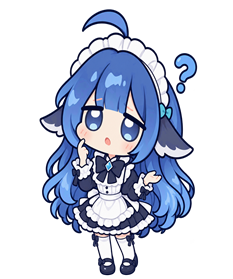
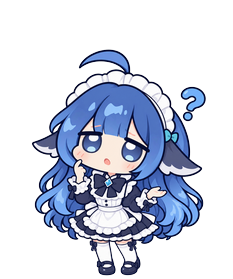
chore: release 0.0.160

diff --git a/src/renderer/avatar.tsx b/src/renderer/avatar.tsx
@@ -61,6 +61,8 @@ function Avatar() {
   const { snapshot, error, run } = usePetState();
   const [approval, setApproval] = useState<{ id: string; title: string; detail?: string } | null>(null);
   useEffect(() => petBridge().onApprovalRequest((request) => setApproval(request)), []);
+  // 偷窥截屏时换成探头偷看的表情，截完自动换回。
+  useEffect(() => petBridge().onPeekFace?.((active) => setPeekFace(active)), []);
   const personaId = snapshot?.conversationLibrary?.settings.personaId ?? 'xiaojing';
   const personaArt = avatarArtFor(personaId);
   const personaRig = avatarRigFor(personaId);
@@ -114,7 +116,8 @@ function Avatar() {
   const swapRef = useRef<HTMLDivElement | null>(null);
   const idleStop = useRef<(() => void) | null>(null);
   const ahogeRef = useRef<HTMLImageElement | null>(null);
-  const [poseId, setPoseId] = useState<string | null>(null);
+  const [poseId, setPoseId] = useState<string | null>(null)
+  const [peekFace, setPeekFace] = useState(false);
   const lastPose = useRef<string | null>(null);
   const greeted = useRef(false);
   const [visibleArt, setVisibleArt] = useState<string | null>(null);
@@ -143,7 +146,8 @@ function Avatar() {
   // compacting, so using it here could let a fidget interrupt those states.
   const idleBehaviorAllowed = lanes.task === 'idle' && lanes.voice === 'silent' && lanes.interaction === 'none';
   const stateFace = faceForAvatarEmotion(lanes.emotion);
-  const desiredFace = stateFace ?? (idleBehaviorAllowed ? poseId : null);
+  // 状态提示压过一切（只持续几秒）；偷窥的探头次之；空闲轮换垫底。
+  const desiredFace = stateFace ?? (peekFace ? 'peek' : idleBehaviorAllowed ? poseId : null);
   const desiredArt = avatarFaceUrl(personaId, desiredFace);
   const entryCue = entryCueFor(lanes);
 

diff --git a/src/main/index.ts b/src/main/index.ts
@@ -203,6 +203,10 @@ const roastService = new RoastService({
         const shot = await captureScreenBase64()
         if (shot) image = shot
       }
+      // 偷窥截屏时让角色换成探头偷看的表情；开关关掉前一直保持。
+      if (image && avatarWindow && !avatarWindow.isDestroyed()) {
+        avatarWindow.webContents.send('pet:peek-face', true)
+      }
       const prompt = typeof settings.roastPrompt === 'string' ? settings.roastPrompt.trim() : ''
       const now = new Date()
       const today = now.toDateString()
@@ -1243,6 +1247,10 @@ function sendUiSizeWhenLoaded(win: BrowserWindow): void {
     win.webContents.send('pet:ui-size', currentUiSize)
     win.webContents.send('pet:window-opacity', currentWindowOpacity)
     win.webContents.send('pet:avatar-opacity', currentAvatarOpacity)
+    // 重启后偷窥还开着的话，角色要直接是探头偷看的样子。
+    try {
+      win.webContents.send('pet:peek-face', activeController().currentSettings().eyeEnabled === true)
+    } catch { /* 设置还没就绪就先不切 */ }
   })
 }
 
@@ -2295,6 +2303,9 @@ function buildSettingsIpcDeps() {
     settingsTrusted,
     activeController,
     personaDirectory: path.join(dataRoot, 'persona'),
+    sendPeekFace: (active: boolean) => {
+      if (avatarWindow && !avatarWindow.isDestroyed()) avatarWindow.webContents.send('pet:peek-face', active)
+    },
     memory,
     updateService,
     conversationSettingsPatch,

diff --git a/src/renderer/settings.tsx b/src/renderer/settings.tsx
@@ -1277,8 +1277,9 @@ export function SettingsPage() {
     {eyeConfirm && <div className="settings-confirm-overlay" role="alertdialog" aria-modal="true" aria-label="确认开启偷窥模式">
       <div className="settings-confirm-card">
         <h2>开启偷窥模式？</h2>
-        <p>开启后小鲸会定时截屏，发给模型分析。私人窗口请先关掉。</p>
-        <p>截图只用于当次分析，不会存成文件，可以随时关闭。</p>
+        <p>开启后，每条吐槽生成时小鲸会截一张当前屏幕发给模型。角色会换成「探头偷看」的表情，你随时能看出它正在看。</p>
+        <p>聊天窗口、密码和私人内容请先关掉或移开。截图只用于当次分析，不存文件，随时可以关。</p>
+        <p>偷窥一直开着时，探头表情会保持；任务提示会短暂盖过它几秒，然后自动回到探头。</p>
         <div className="settings-workspace-confirm-actions">
           <button type="button" onClick={() => setEyeConfirm(false)}>取消</button>
           <button type="button" className="is-danger" onClick={() => { setEyeConfirm(false); void update({ eyeEnabled: true }) }}>确认开启</button>

diff --git a/src/renderer/avatar-rig.ts b/src/renderer/avatar-rig.ts
@@ -1,6 +1,6 @@
 import { personaById } from '../shared/personas'
 
-export type AvatarFaceId = 'focus' | 'smile' | 'surprise' | 'sleepy' | 'shy' | 'failed'
+export type AvatarFaceId = 'focus' | 'smile' | 'surprise' | 'sleepy' | 'shy' | 'failed' | 'question' | 'peek'
 
 export interface PersonaMotionProfile {
   /** RGB triplet consumed by CSS as `rgb(var(--avatar-accent) / alpha)`. */
@@ -40,7 +40,9 @@ const rigs: Record<string, PersonaVisualRig> = {
       surprise: new URL('./assets/poses/surprise@2x.png', import.meta.url).href,
       sleepy: new URL('./assets/poses/sleepy@2x.png', import.meta.url).href,
       shy: new URL('./assets/poses/shy@2x.png', import.meta.url).href,
-      failed: new URL('./assets/poses/failed@2x.png', import.meta.url).href
+      failed: new URL('./assets/poses/failed@2x.png', import.meta.url).href,
+      question: new URL('./assets/poses/question@2x.png', import.meta.url).href,
+      peek: new URL('./assets/poses/peek@2x.png', import.meta.url).href
     },
     motion: { accent: '122 190 246', energy: 1, statusAnchor: { x: .88, y: .09 }, faceAnchor: { x: .50, y: .35 } }
   },

diff --git a/src/renderer/avatar-poses.ts b/src/renderer/avatar-poses.ts
@@ -10,7 +10,8 @@ export interface PoseSpec {
 export const POSES: readonly PoseSpec[] = [
   { id: 'surprise', kind: 'expression' },
   { id: 'sleepy', kind: 'expression' },
-  { id: 'shy', kind: 'expression' }
+  { id: 'shy', kind: 'expression' },
+  { id: 'peek', kind: 'expression' }
 ];
 
 const SOURCES: Record<string, string> = {
@@ -20,7 +21,8 @@ const SOURCES: Record<string, string> = {
   sleepy: new URL('./assets/poses/sleepy.png', import.meta.url).href,
   shy: new URL('./assets/poses/shy.png', import.meta.url).href,
   failed: new URL('./assets/poses/failed.png', import.meta.url).href,
-  question: new URL('./assets/poses/question.png', import.meta.url).href
+  question: new URL('./assets/poses/question.png', import.meta.url).href,
+  peek: new URL('./assets/poses/peek.png', import.meta.url).href
 };
 
 export function poseSrc(id: string): string | null {

diff --git a/src/preload/index.ts b/src/preload/index.ts
@@ -105,6 +105,11 @@ const api: PetAPI = {
     ipcRenderer.on('pet:roast-text', handler)
     return () => { ipcRenderer.removeListener('pet:roast-text', handler) }
   },
+  onPeekFace: (callback: (active: boolean) => void) => {
+    const handler = (_event: Electron.IpcRendererEvent, value: boolean): void => { callback(value === true) }
+    ipcRenderer.on('pet:peek-face', handler)
+    return () => { ipcRenderer.removeListener('pet:peek-face', handler) }
+  },
   openOnboarding: () => ipcRenderer.invoke('pet:open-onboarding'),
   interruptTurn: (conversationId) => ipcRenderer.invoke('pet:interrupt-turn', conversationId),
   backgroundTask: (toolUseId, conversationId) => ipcRenderer.invoke('pet:background-task', toolUseId, conversationId),

diff --git a/src/main/ipc-settings.ts b/src/main/ipc-settings.ts
@@ -66,6 +66,8 @@ export function registerSettingsIpc(deps: SettingsIpcDeps): void {
       deps.currentAvatarOpacity = deps.opacityFor(settings.avatarOpacity)
       deps.panelWindow?.setOpacity(deps.currentWindowOpacity)
       deps.avatarWindow?.setOpacity(1)
+      // 偷窥开关变化时，角色立刻切到探头偷看或换回。
+      deps.sendPeekFace?.(settings.eyeEnabled === true)
       // 透明窗口的 setOpacity 在 Windows 上无效，渲染层用 CSS 变量接这两个值。
       deps.panelWindow?.webContents.send('pet:window-opacity', deps.currentWindowOpacity)
       deps.avatarWindow?.webContents.send('pet:avatar-opacity', deps.currentAvatarOpacity)

diff --git a/test/audit-active-avatar-assets.test.ts b/test/audit-active-avatar-assets.test.ts
@@ -98,7 +98,7 @@ describe('actual avatar asset gate', () => {
   it('discovers all render-linked bodies, avatars and poses without staging files', () => {
     const assets = assetInventory()
     expect(assets.filter((a: { role: string }) => a.role === 'persona-body')).toHaveLength(4)
-    expect(assets.filter((a: { role: string }) => a.role === 'pose')).toHaveLength(7)
+    expect(assets.filter((a: { role: string }) => a.role === 'pose')).toHaveLength(8)
     expect(assets.filter((a: { role: string }) => a.role === 'reference')).toHaveLength(1)
     expect(audit().results).toHaveLength(assets.length)
   })

diff --git a/src/shared/contracts.ts b/src/shared/contracts.ts
@@ -938,6 +938,8 @@ export interface PetAPI {
   /** 吐槽卡：手动换一条；主进程推新内容时回调。 */
   refreshRoast(): Promise<string | null>
   onRoastText(callback: (roast: { text: string; at: number } | null) => void): () => void
+  /** 偷窥模式截屏时短暂换成探头偷看的表情。 */
+  onPeekFace?(callback: (active: boolean) => void): () => void
   /** Opens the first-run configuration wizard (DeepSeek setup). */
   openOnboarding(): Promise<void>
   setAvatarState(state: AvatarState): Promise<void>

diff --git a/test/avatar-poses.test.ts b/test/avatar-poses.test.ts
@@ -5,7 +5,7 @@ describe('pose library', () => {
   it('rotates only upright expressions and never randomly jumps into a whole-body pose', () => {
     const ids = POSES.map((pose) => pose.id)
     expect(new Set(ids).size).toBe(ids.length)
-    expect(ids).toEqual(['surprise', 'sleepy', 'shy'])
+    expect(ids).toEqual(['surprise', 'sleepy', 'shy', 'peek'])
     expect(POSES.every((pose) => pose.kind === 'expression')).toBe(true)
     expect(ids).not.toContain('doze')
     expect(poseSrc('doze')).toBeNull()

diff --git a/src/main/roast-generate.ts b/src/main/roast-generate.ts
@@ -32,7 +32,9 @@ export async function generateRoast(
     const body: Record<string, unknown> = {
       model: input.image ? 'deepseek-flash' : 'deepseek-chat',
       temperature: 1.2,
-      max_tokens: 160,
+      // 思考过程也占 max_tokens；160 会被思考吃光，正文变成空串。
+      max_tokens: 800,
+      thinking: { type: 'disabled' },
       messages: [
         { role: 'system', content: input.prompt?.trim() || PROMPT },
         {
